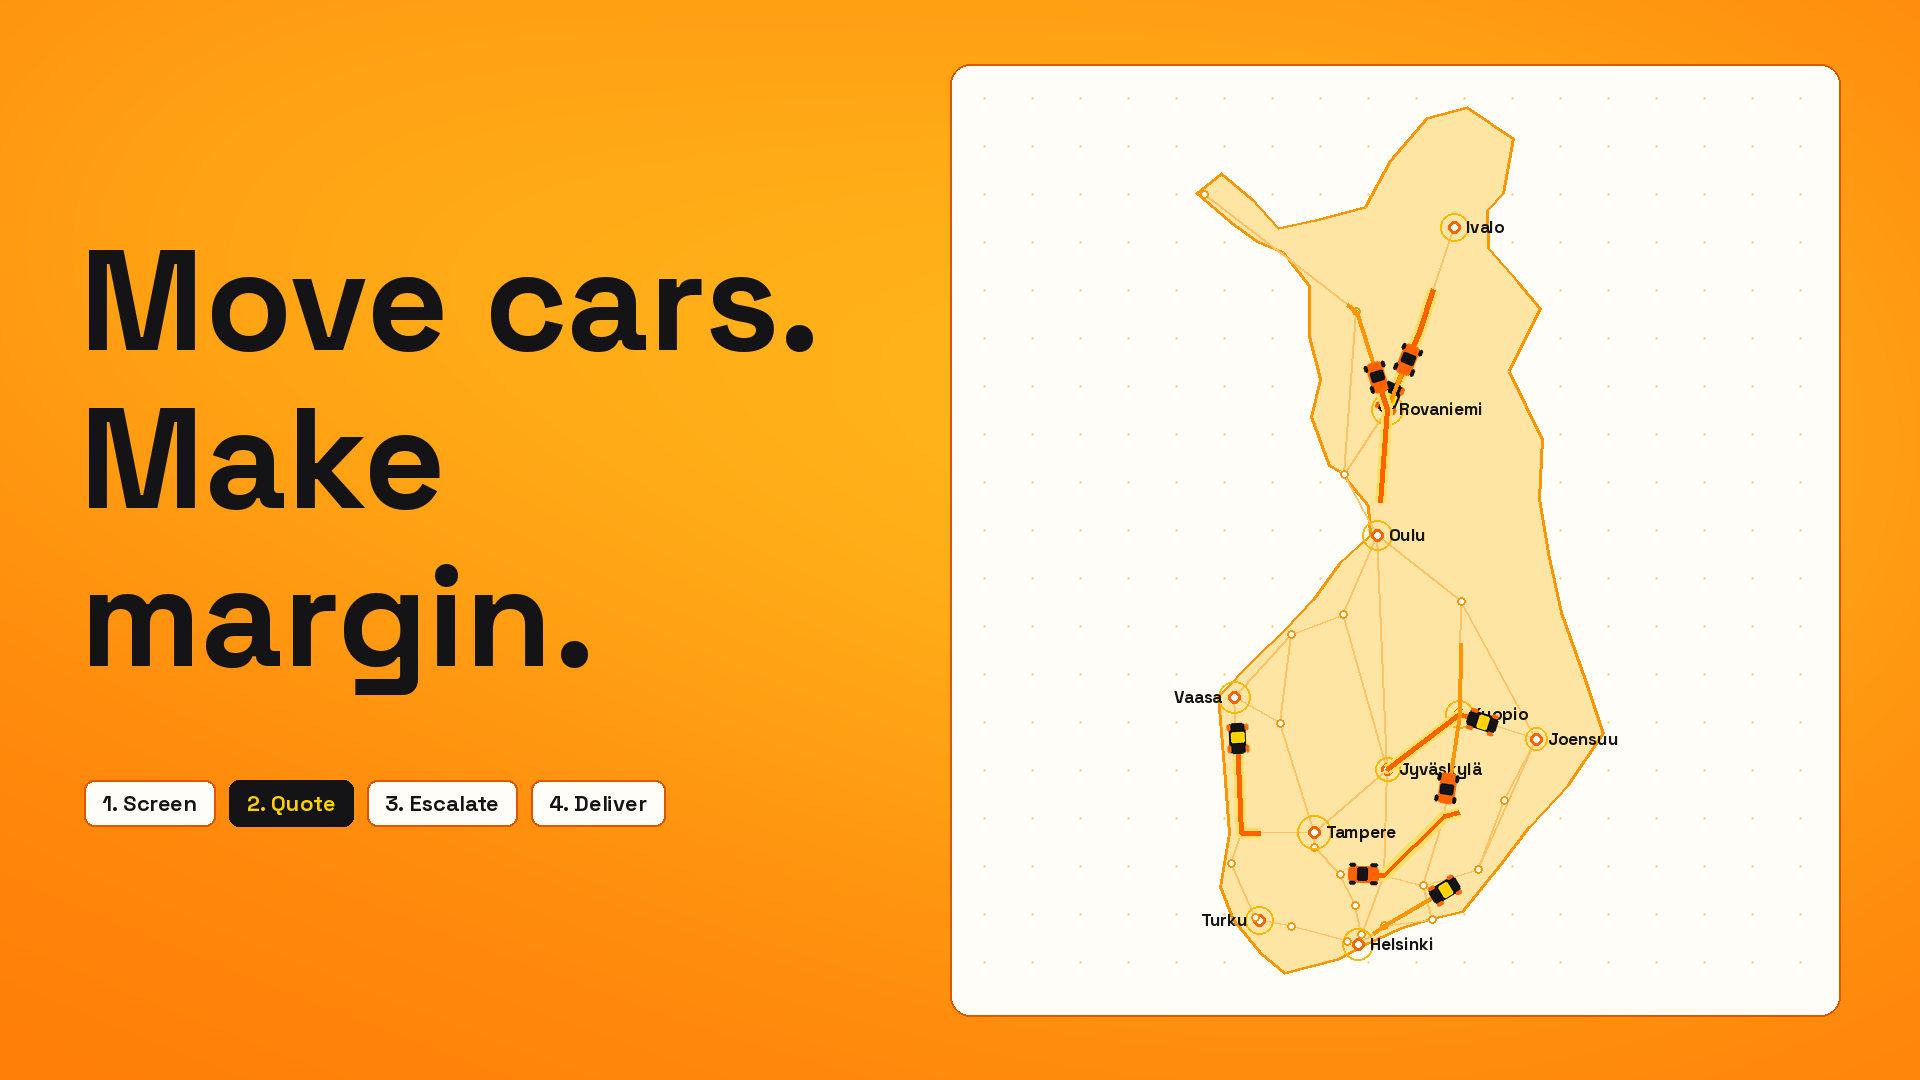
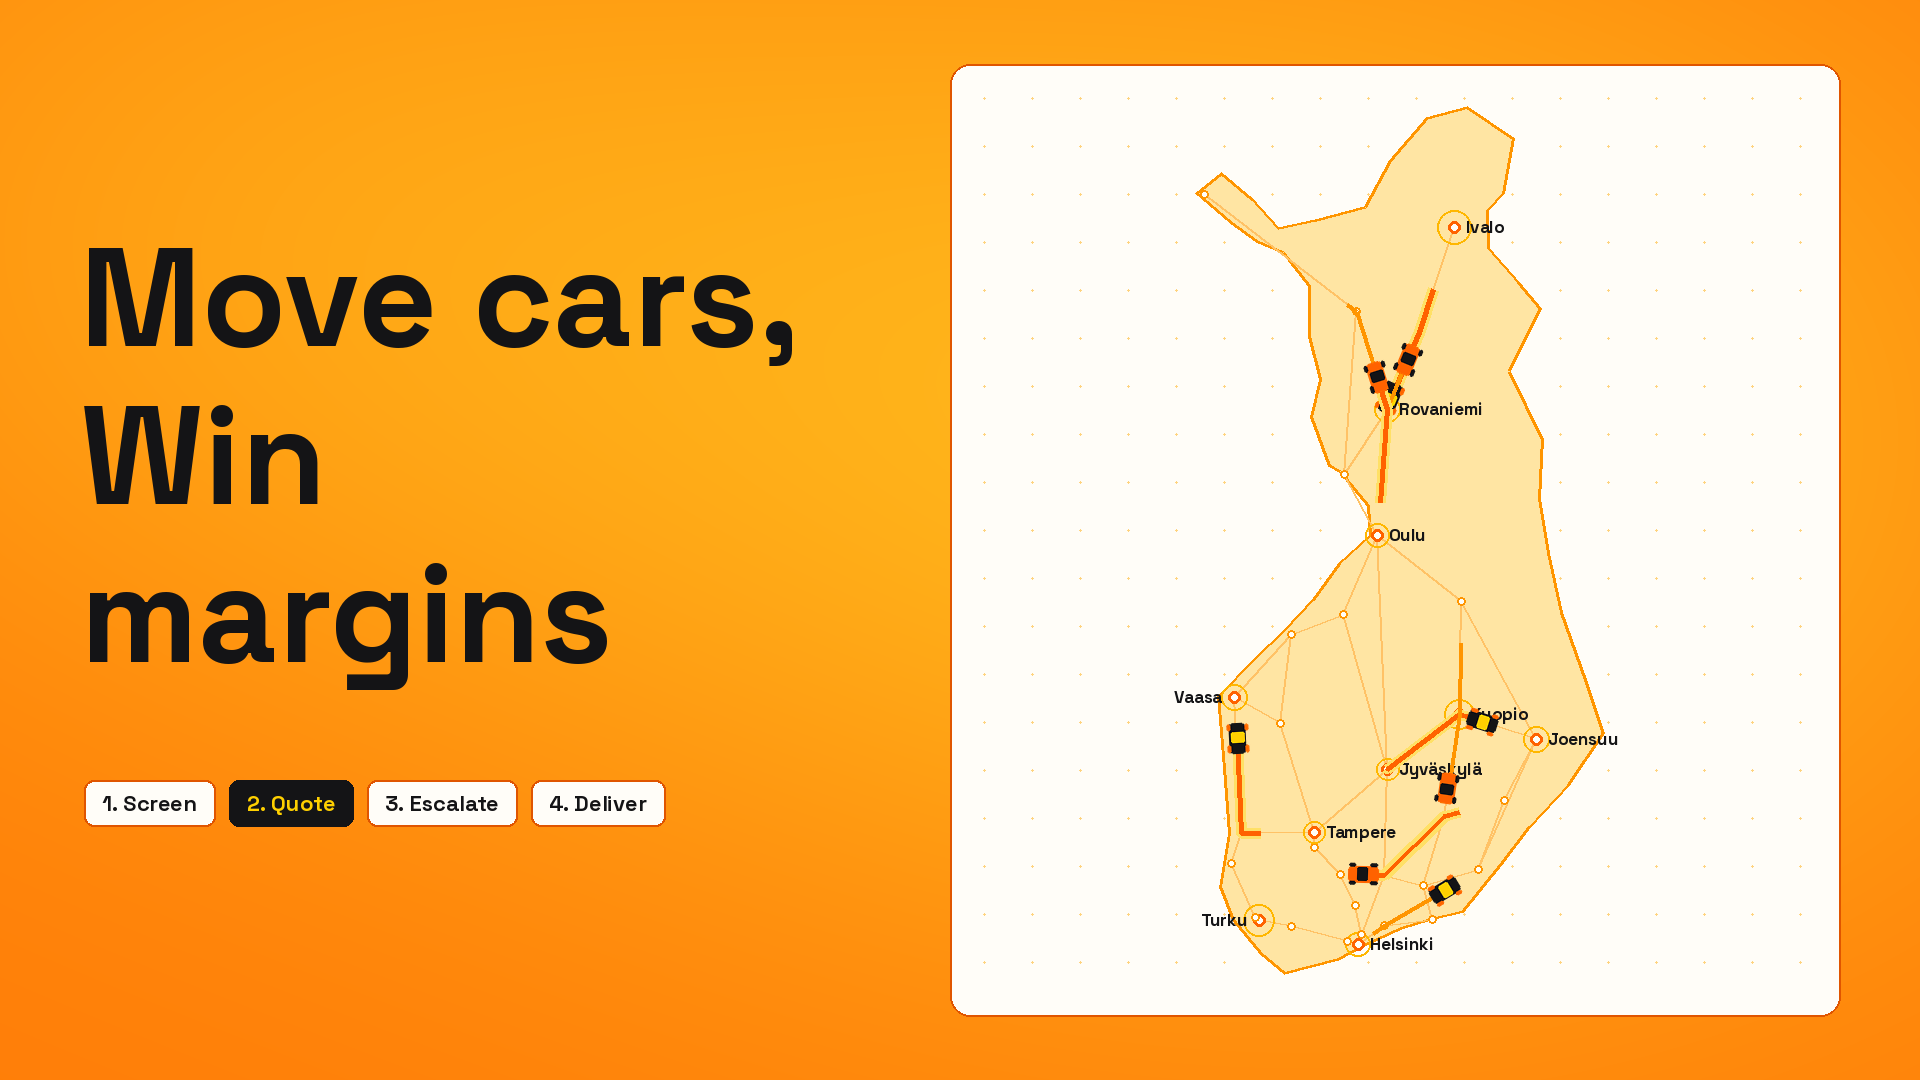
feat(demo-video): change opening headline to Move cars, Win margins

diff --git a/docs/demo-video/render.py b/docs/demo-video/render.py
@@ -411,9 +411,9 @@ def finland_map(im, t, box=(820, 80, 1840, 1000), zoom_south=False, bg=CARD, bor
 def hero(t):
     im = base_canvas('juicy').copy()
     finland_map(im, t, (950, 64, 1840, 1016), zoom_south=False, bg=CARD, border='#E05500')
-    enter(im, 'Move cars.', 80, 210, 142, t, .05, color=INK, weight=700)
-    enter(im, 'Make', 80, 368, 142, t, .16, color=INK, weight=700)
-    enter(im, 'margin.', 80, 526, 142, t, .26, color=INK, weight=700)
+    enter(im, 'Move cars,', 80, 210, 138, t, .05, color=INK, weight=700)
+    enter(im, 'Win', 80, 368, 138, t, .16, color=INK, weight=700)
+    enter(im, 'margins', 80, 526, 138, t, .26, color=INK, weight=700)
     if t > .45:
         steps = ['1. Screen', '2. Quote', '3. Escalate', '4. Deliver']
         xx = 84

diff --git a/docs/demo-video/README.md b/docs/demo-video/README.md
@@ -29,7 +29,7 @@ Output defaults to `runs/demo-video/` (ignored by Git); `--output /absolute/path
 
 | Time | Scene |
 | --- | --- |
-| 00:00–00:05 | Move cars. Make margin. Full Finland map with 30 simulator towns. |
+| 00:00–00:05 | Move cars, Win margins. Full Finland map with 30 simulator towns. |
 | 00:05–00:13 | 1,187 runs: Graphical `Alpha → Beta → Gamma → Delta` iteration pipeline (`677`, `278`, `208`, `22+ LIVE`) with run-volume matrices and rising margin trajectory. |
 | 00:13–00:20 | 2×2 Dispatch Bento: Screen, Quote, Escalate fee (`0.80× → 1.50×`), Qualify (`≥ 90%`). |
 | 00:20–00:26 | Observability: Real offline HTML report screenshot with scrolling details. |
